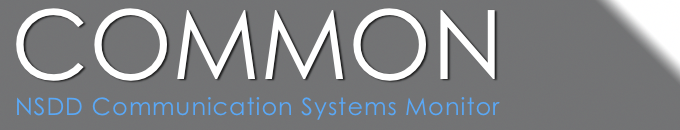
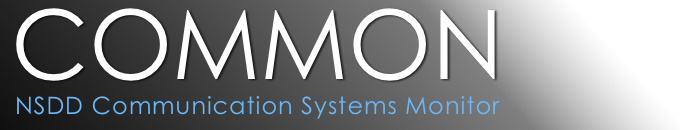
Just tweaked the header image

diff --git a/src/COMMON/Properties/AssemblyInfo.cs b/src/COMMON/Properties/AssemblyInfo.cs
@@ -31,5 +31,5 @@ using System.Runtime.InteropServices;
 // You can specify all the values or you can default the Build and Revision Numbers 
 // by using the '*' as shown below:
 // [assembly: AssemblyVersion("1.0.*")]
-[assembly: AssemblyVersion("1.5.3.107")]
-[assembly: AssemblyFileVersion("1.5.3.107")]
+[assembly: AssemblyVersion("1.5.3.108")]
+[assembly: AssemblyFileVersion("1.5.3.108")]

diff --git a/src/COMMONCLI/Properties/AssemblyInfo.cs b/src/COMMONCLI/Properties/AssemblyInfo.cs
@@ -31,5 +31,5 @@ using System.Runtime.InteropServices;
 // You can specify all the values or you can default the Build and Revision Numbers 
 // by using the '*' as shown below:
 // [assembly: AssemblyVersion("1.0.*")]
-[assembly: AssemblyVersion("1.5.3.107")]
-[assembly: AssemblyFileVersion("1.5.3.107")]
+[assembly: AssemblyVersion("1.5.3.108")]
+[assembly: AssemblyFileVersion("1.5.3.108")]

diff --git a/src/COMMONWebHost/Properties/AssemblyInfo.cs b/src/COMMONWebHost/Properties/AssemblyInfo.cs
@@ -31,5 +31,5 @@ using System.Runtime.InteropServices;
 // You can specify all the values or you can default the Build and Revision Numbers 
 // by using the '*' as shown below:
 // [assembly: AssemblyVersion("1.0.*")]
-[assembly: AssemblyVersion("1.5.3.107")]
-[assembly: AssemblyFileVersion("1.5.3.107")]
+[assembly: AssemblyVersion("1.5.3.108")]
+[assembly: AssemblyFileVersion("1.5.3.108")]

diff --git a/src/COMMONWebTest/Properties/AssemblyInfo.cs b/src/COMMONWebTest/Properties/AssemblyInfo.cs
@@ -31,5 +31,5 @@ using System.Runtime.InteropServices;
 // You can specify all the values or you can default the Build and Revision Numbers 
 // by using the '*' as shown below:
 // [assembly: AssemblyVersion("1.0.*")]
-[assembly: AssemblyVersion("1.5.3.107")]
-[assembly: AssemblyFileVersion("1.5.3.107")]
+[assembly: AssemblyVersion("1.5.3.108")]
+[assembly: AssemblyFileVersion("1.5.3.108")]

diff --git a/src/CSVLib/Properties/AssemblyInfo.cs b/src/CSVLib/Properties/AssemblyInfo.cs
@@ -31,5 +31,5 @@ using System.Runtime.InteropServices;
 // You can specify all the values or you can default the Build and Revision Numbers 
 // by using the '*' as shown below:
 // [assembly: AssemblyVersion("1.0.*")]
-[assembly: AssemblyVersion("1.5.3.107")]
-[assembly: AssemblyFileVersion("1.5.3.107")]
+[assembly: AssemblyVersion("1.5.3.108")]
+[assembly: AssemblyFileVersion("1.5.3.108")]

diff --git a/src/ConfigurationLib/Properties/AssemblyInfo.cs b/src/ConfigurationLib/Properties/AssemblyInfo.cs
@@ -31,5 +31,5 @@ using System.Runtime.InteropServices;
 // You can specify all the values or you can default the Build and Revision Numbers 
 // by using the '*' as shown below:
 // [assembly: AssemblyVersion("1.0.*")]
-[assembly: AssemblyVersion("1.5.3.107")]
-[assembly: AssemblyFileVersion("1.5.3.107")]
+[assembly: AssemblyVersion("1.5.3.108")]
+[assembly: AssemblyFileVersion("1.5.3.108")]

diff --git a/src/DataLib/Properties/AssemblyInfo.cs b/src/DataLib/Properties/AssemblyInfo.cs
@@ -31,5 +31,5 @@ using System.Runtime.InteropServices;
 // You can specify all the values or you can default the Build and Revision Numbers 
 // by using the '*' as shown below:
 // [assembly: AssemblyVersion("1.0.*")]
-[assembly: AssemblyVersion("1.5.3.107")]
-[assembly: AssemblyFileVersion("1.5.3.107")]
+[assembly: AssemblyVersion("1.5.3.108")]
+[assembly: AssemblyFileVersion("1.5.3.108")]

diff --git a/src/DatabaseLib/Properties/AssemblyInfo.cs b/src/DatabaseLib/Properties/AssemblyInfo.cs
@@ -31,5 +31,5 @@ using System.Runtime.InteropServices;
 // You can specify all the values or you can default the Build and Revision Numbers 
 // by using the '*' as shown below:
 // [assembly: AssemblyVersion("1.0.*")]
-[assembly: AssemblyVersion("1.5.3.107")]
-[assembly: AssemblyFileVersion("1.5.3.107")]
+[assembly: AssemblyVersion("1.5.3.108")]
+[assembly: AssemblyFileVersion("1.5.3.108")]

diff --git a/src/EncryptDecrypt/Properties/AssemblyInfo.cs b/src/EncryptDecrypt/Properties/AssemblyInfo.cs
@@ -31,5 +31,5 @@ using System.Runtime.InteropServices;
 // You can specify all the values or you can default the Build and Revision Numbers 
 // by using the '*' as shown below:
 // [assembly: AssemblyVersion("1.0.*")]
-[assembly: AssemblyVersion("1.5.3.107")]
-[assembly: AssemblyFileVersion("1.5.3.107")]
+[assembly: AssemblyVersion("1.5.3.108")]
+[assembly: AssemblyFileVersion("1.5.3.108")]

diff --git a/src/Logging/Properties/AssemblyInfo.cs b/src/Logging/Properties/AssemblyInfo.cs
@@ -31,5 +31,5 @@ using System.Runtime.InteropServices;
 // You can specify all the values or you can default the Build and Revision Numbers 
 // by using the '*' as shown below:
 // [assembly: AssemblyVersion("1.0.*")]
-[assembly: AssemblyVersion("1.5.3.107")]
-[assembly: AssemblyFileVersion("1.5.3.107")]
+[assembly: AssemblyVersion("1.5.3.108")]
+[assembly: AssemblyFileVersion("1.5.3.108")]

diff --git a/src/RequestResponseLib/Properties/AssemblyInfo.cs b/src/RequestResponseLib/Properties/AssemblyInfo.cs
@@ -31,5 +31,5 @@ using System.Runtime.InteropServices;
 // You can specify all the values or you can default the Build and Revision Numbers 
 // by using the '*' as shown below:
 // [assembly: AssemblyVersion("1.0.*")]
-[assembly: AssemblyVersion("1.5.3.107")]
-[assembly: AssemblyFileVersion("1.5.3.107")]
+[assembly: AssemblyVersion("1.5.3.108")]
+[assembly: AssemblyFileVersion("1.5.3.108")]

diff --git a/src/UnitTest/Properties/AssemblyInfo.cs b/src/UnitTest/Properties/AssemblyInfo.cs
@@ -31,5 +31,5 @@ using System.Runtime.InteropServices;
 // You can specify all the values or you can default the Build and Revision Numbers 
 // by using the '*' as shown below:
 // [assembly: AssemblyVersion("1.0.*")]
-[assembly: AssemblyVersion("1.5.3.107")]
-[assembly: AssemblyFileVersion("1.5.3.107")]
+[assembly: AssemblyVersion("1.5.3.108")]
+[assembly: AssemblyFileVersion("1.5.3.108")]
